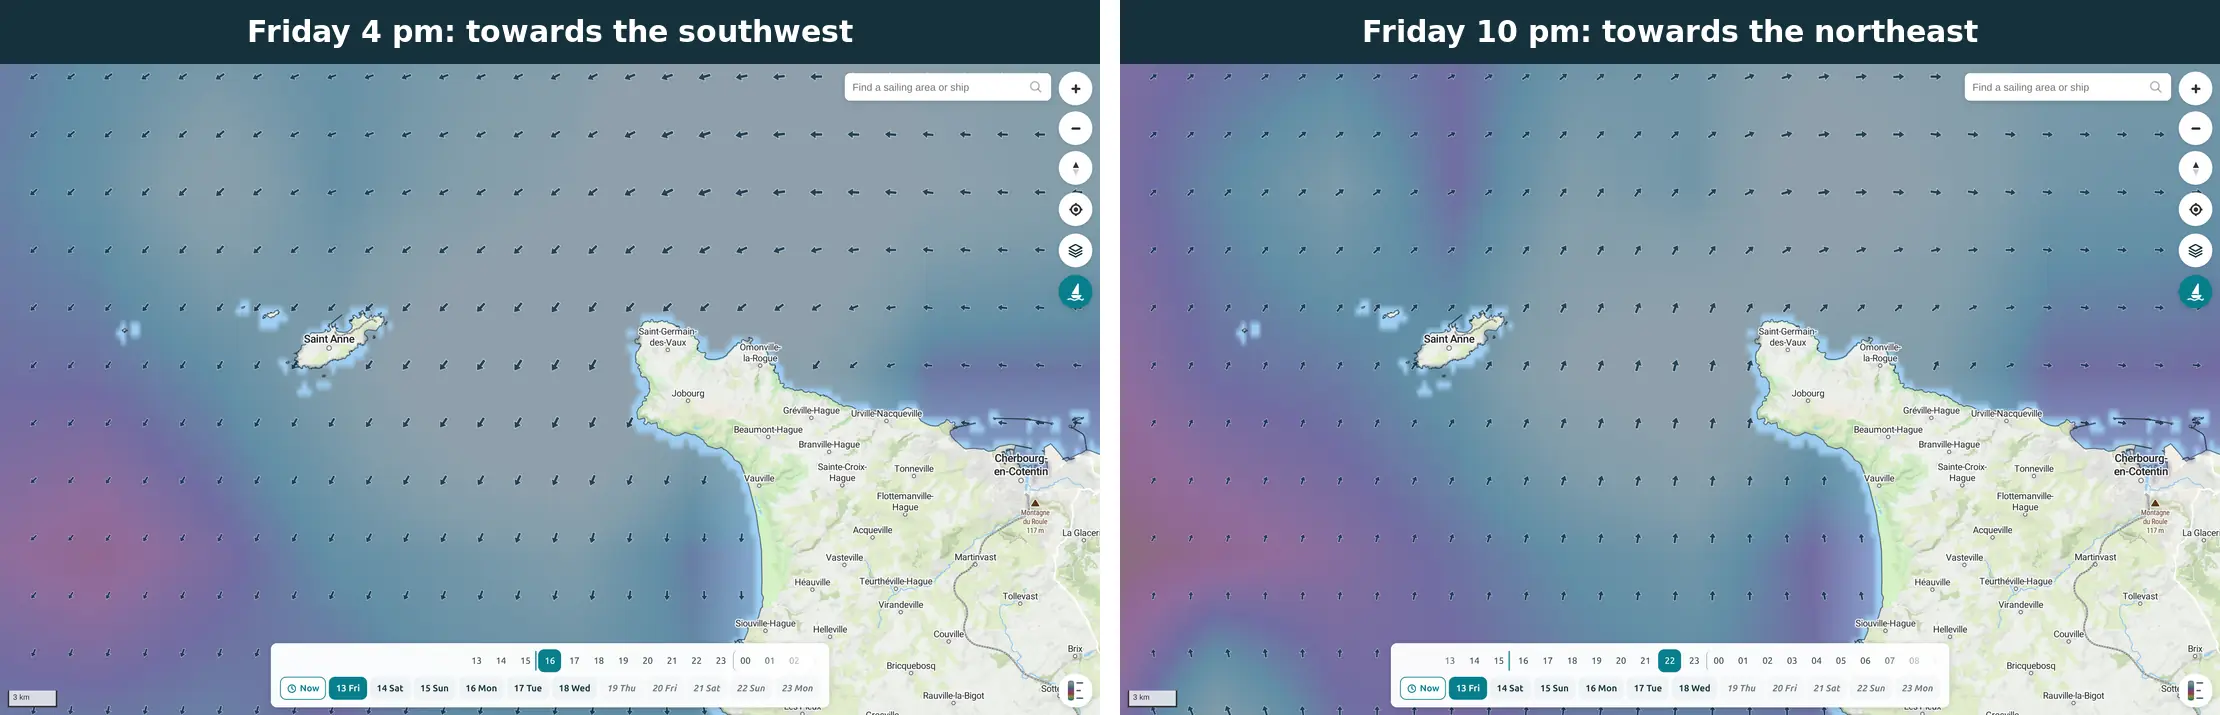
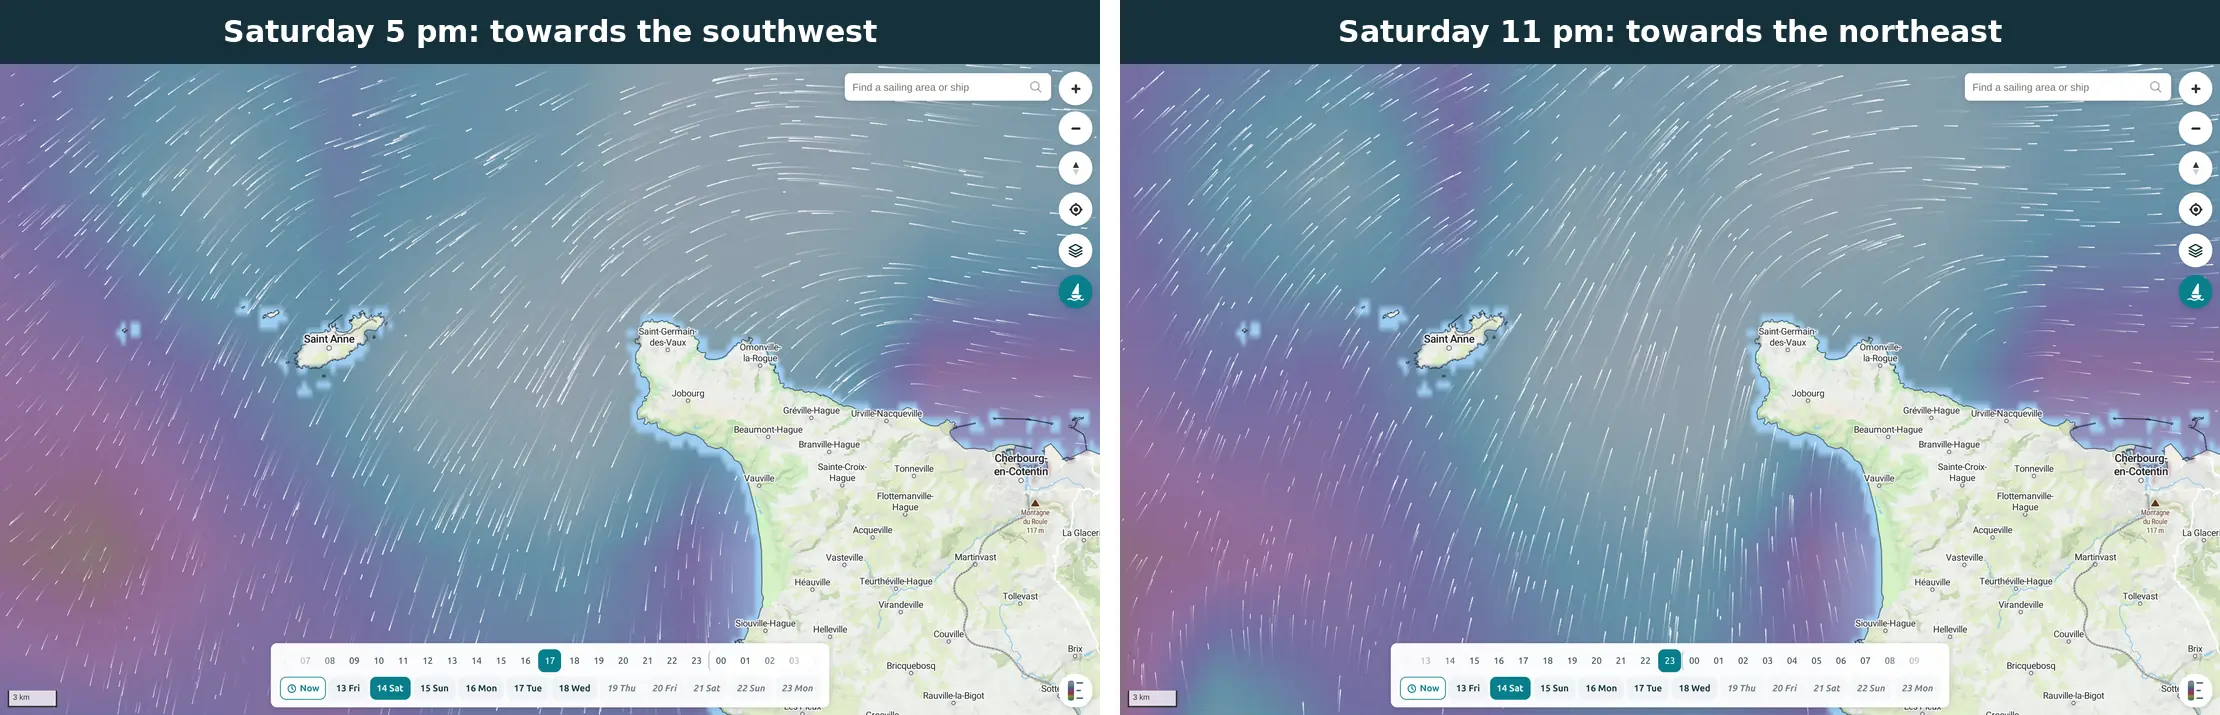
Deploy 2026-11-13 15:25:24 UTC (blog-week-1113 4fbeeacb)

diff --git a/blog/currents-a-second-model-and-ships/index.html b/blog/currents-a-second-model-and-ships/index.html
@@ -181,10 +181,10 @@
 
 <figure class="figure">
   <a class="figure-link chart-frame" href="&#x2F;images&#x2F;week-1113&#x2F;currents-alderney.webp">
-    <img src="&#x2F;images&#x2F;week-1113&#x2F;currents-alderney.webp" alt="The currents between Alderney and the Cotentin with arrows: at 4 pm on Friday they point towards the southwest and west, at 10 pm towards the northeast and east" width="2220" height="715" loading="lazy" />
+    <img src="&#x2F;images&#x2F;week-1113&#x2F;currents-alderney.webp" alt="The currents between Alderney and the Cotentin on Saturday: at 5 pm the particles stream towards the southwest, at 11 pm towards the northeast" width="2220" height="715" loading="lazy" />
   </a>
   
-  <figcaption>The same water six hours apart, with arrows instead of particles: at 4 pm the stream runs southwest through the Alderney Race, at 10 pm it has turned and runs northeast.</figcaption>
+  <figcaption>The same water six hours apart on Saturday: at 5 pm the stream runs southwest through the Alderney Race at about 4 knots, at 11 pm it has turned and runs northeast just as fast.</figcaption>
   
 </figure>
 <h2 id="a-second-forecast-model-for-europe-icon-eu">A second forecast model for Europe: ICON-EU</h2>
